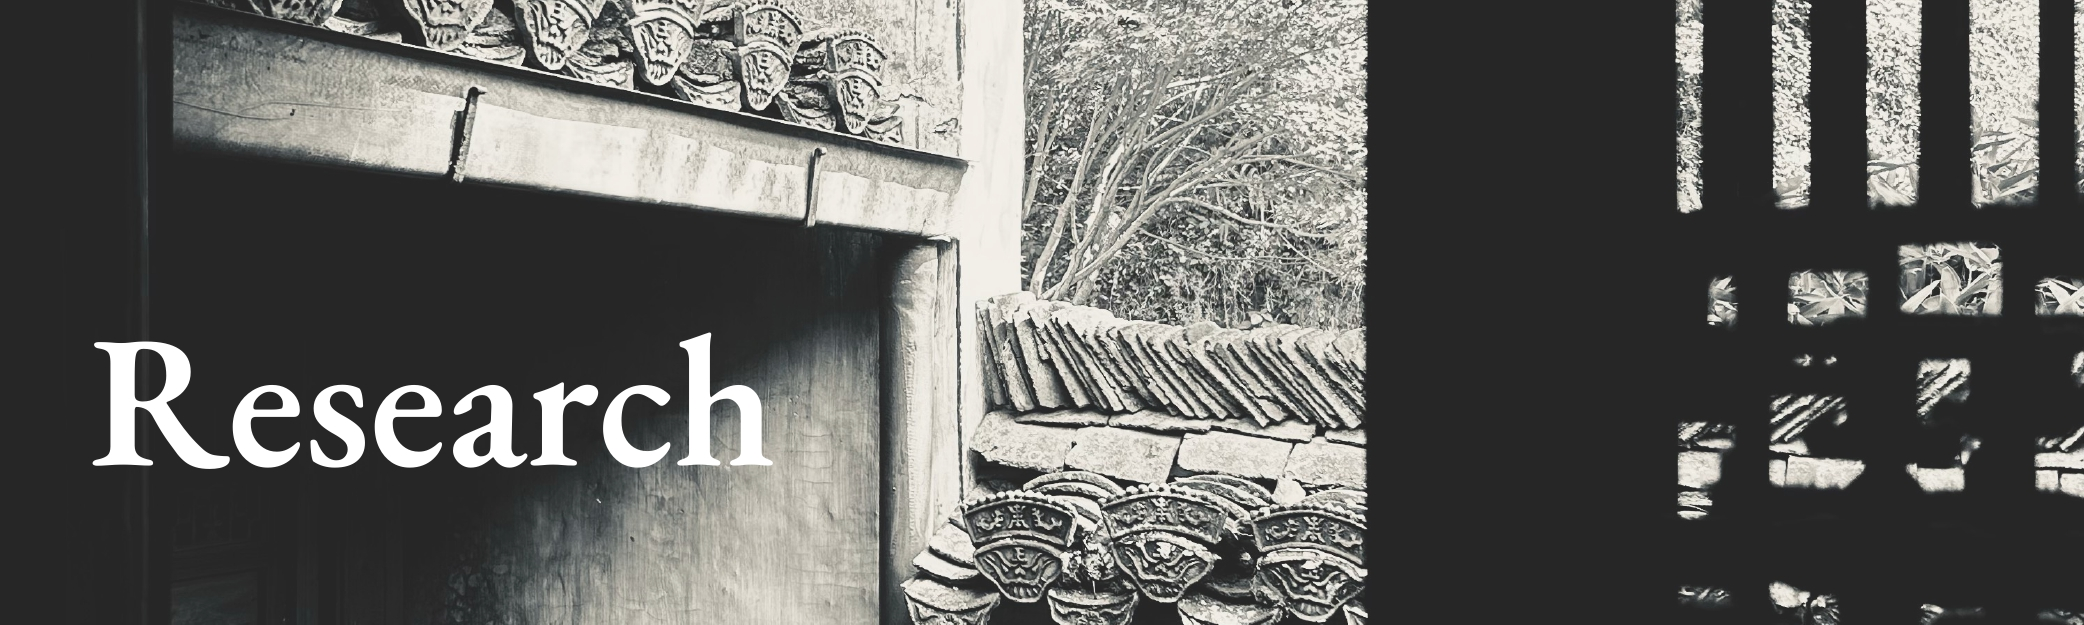
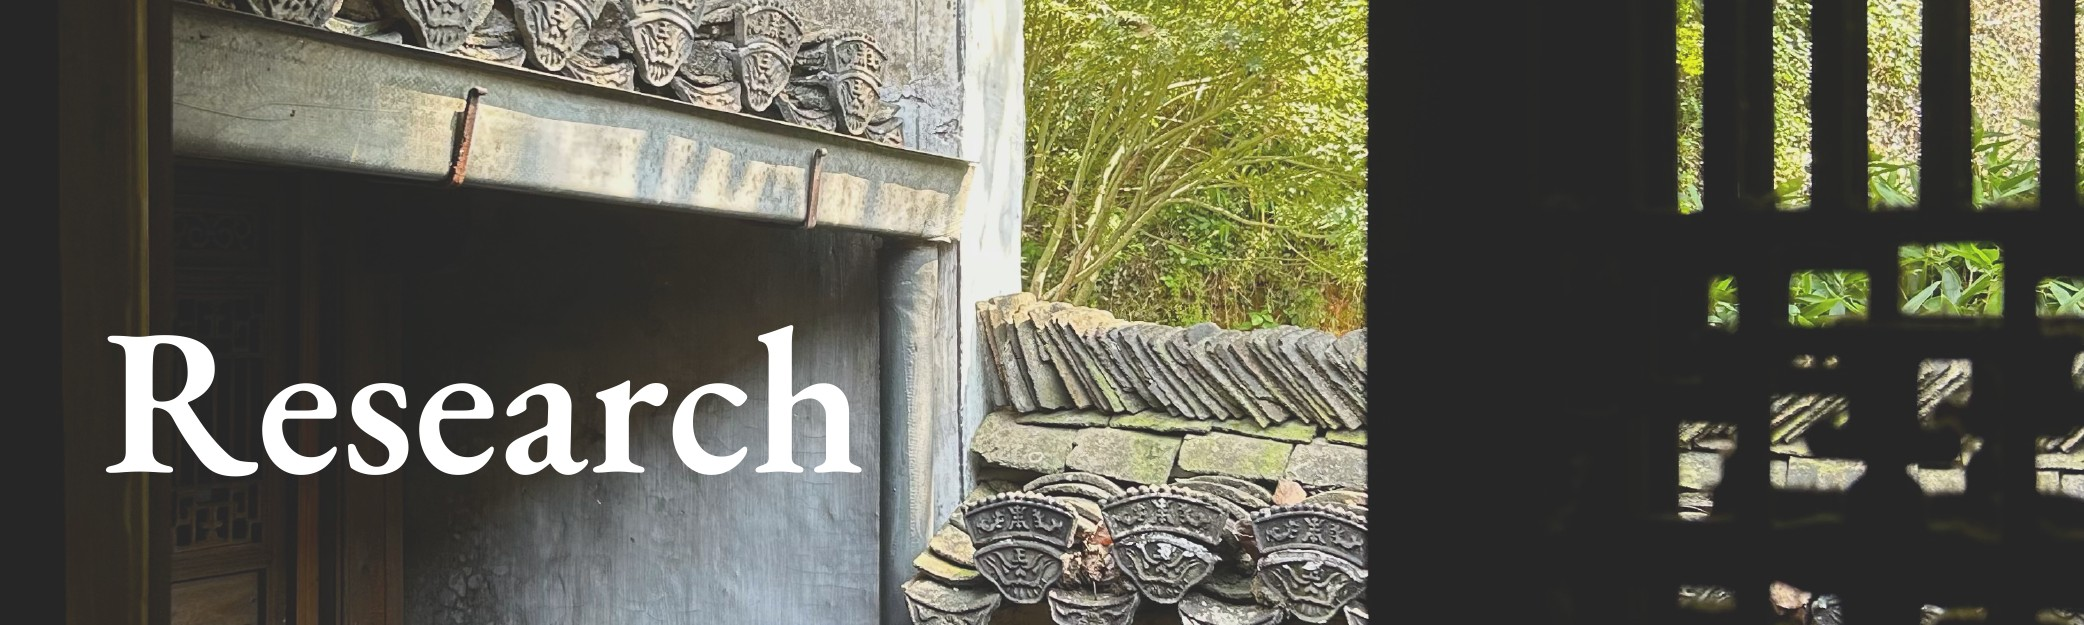
11.27

diff --git a/_sass/_layout.scss b/_sass/_layout.scss
@@ -343,12 +343,13 @@ ol.research-goals-list {
 @media (min-width: 768px) {
   .post .profile {
     float: right;
-    width: 30%;
+    width: 32%;
     margin-left: 0;
     margin-right: 0rem;
-    margin-top: -105px;
+    margin-top: -106px;
     margin-bottom: 0rem;
     padding-left: 5rem;
+    // padding-bottom: 0.5rem;
     box-sizing: border-box;
     position: relative;
     z-index: 1;
@@ -476,20 +477,39 @@ ol.research-goals-list {
   }
 }
 
-// .resource-list a {
-//   font-size: 1.12em;
-//   color: var(--global-text-color);
-//   text-decoration: underline;
-//   text-decoration-color: var(--global-text-color);
-//   text-decoration-thickness: 1.6px;
-//   text-underline-offset: 2px;        // space between text and line
-//   transition: color 0.2s ease, text-decoration-color 0.2s ease;
+// CV box
+.cv-button {
+  display: inline-block;
+  margin-top: 0.5rem;
+  padding: 0.5rem 1.1rem;
+  // border: 1.5px solid var(--global-text-color);
+  border-radius: 0;                     // square corners, like your covers
+  background-color: var(--global-theme-color);
+  color: var(--global-bg-color);          // white in light mode, dark in dark mode
+  // color: var(--global-text-color);
+  text-decoration: none;
+  font-family: 'Poppins', sans-serif;
+  font-size: 0.8em !important;
+  font-weight: 400 !important;
+  transition: color 0.2s ease, border-color 0.2s ease;
 
-//   &:hover {
-//     color: var(--global-theme-color);
-//     text-decoration-color: var(--global-theme-color);
-//   }
-// }
+  i {
+    margin-left: 0.4em;
+    font-size: 0.85em;
+    transition: transform 0.2s ease;
+  }
+
+  &:hover {
+    // color: var(--global-theme-color);
+    color: var(--global-bg-color);        // keep the text color unchanged
+    border-color: var(--global-theme-color);
+    text-decoration: none;              // override the theme's hover underline
+
+    i {
+      transform: translateX(3px);       // arrow nudges right on hover
+    }
+  }
+}
 
 
 

diff --git a/_pages/about.md b/_pages/about.md
@@ -33,11 +33,13 @@ latest_posts:
   <img src="{{ '/assets/img/prof_pic.jpg' | relative_url }}" class="img-fluid z-depth-1 rounded" alt="Photo of Weijie Xu">
 </div>
 
-<p>&nbsp;</p>
+<!-- <p>&nbsp;</p> -->
 
 I am a Postdoctoral Research Associate in Linguistics at UMass Amherst. I am a member of the [<span class="page-link-in-text">Computational Sentence Processing Lab</span>](https://people.umass.edu/bwdillon/compsentproc.html), working with [<span class="page-link-in-text">Brian Dillon</span>](https://people.umass.edu/bwdillon/?_gl=1*md20qh*_gcl_au*NjU5Mjc1MTM4LjE3ODY1NTY2NDM.*_ga*NTEzMzE4MzUxLjE3Nzg3NzEyMjk.*_ga_21RLS0L7EB*czE3ODcyNjk4MDUkbzMxJGcxJHQxNzg3MjY5ODY1JGo2MCRsMCRoMA..). My area of specialization is computational psycholinguistics. 
 
-<!-- Our cognitive system is bounded by considerable constraints, yet remarkably it functions in a seemingly effortless way. My research focuses on human language as a unique window to look into this bounded nature of human mind, aiming to explain how universal cognitive principles and pressures shape the processing of linguistic signals as well as the learning and formation of linguistic knowledge. -->
+<a class="cv-button" href="{{ '/assets/pdf/Weijie_Xu_CV.pdf' | relative_url }}" target="_blank" rel="noopener">
+  Download my CV <i class="fa-solid fa-arrow-right"></i>
+</a>
 
 <div style="clear: both;"></div>
 

diff --git a/_pages/cv.md b/_pages/cv.md
@@ -3,7 +3,8 @@ layout: page
 permalink: /cv/
 title: CV
 nav: true
-nav_order: 4
+# nav_order: 4
+nav: false
 # cv_pdf: example_pdf.pdf # you can also use external links here
 description: 
 # toc:
